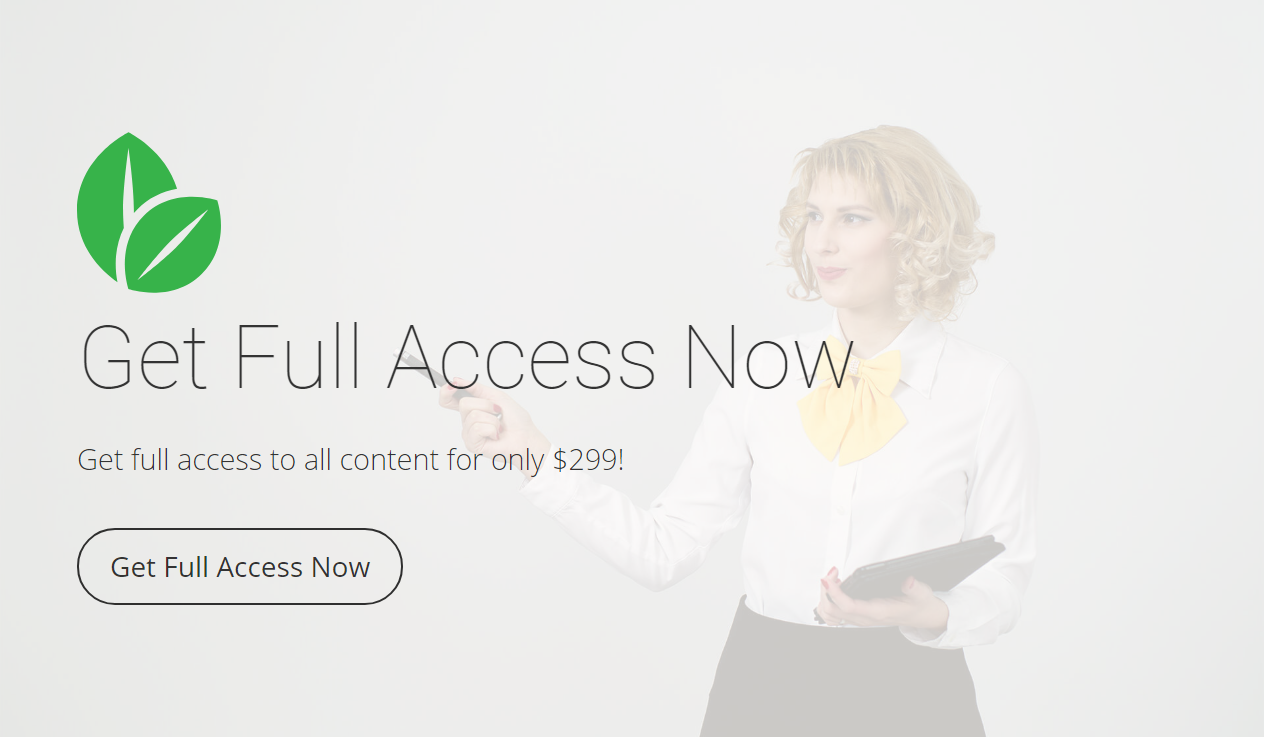
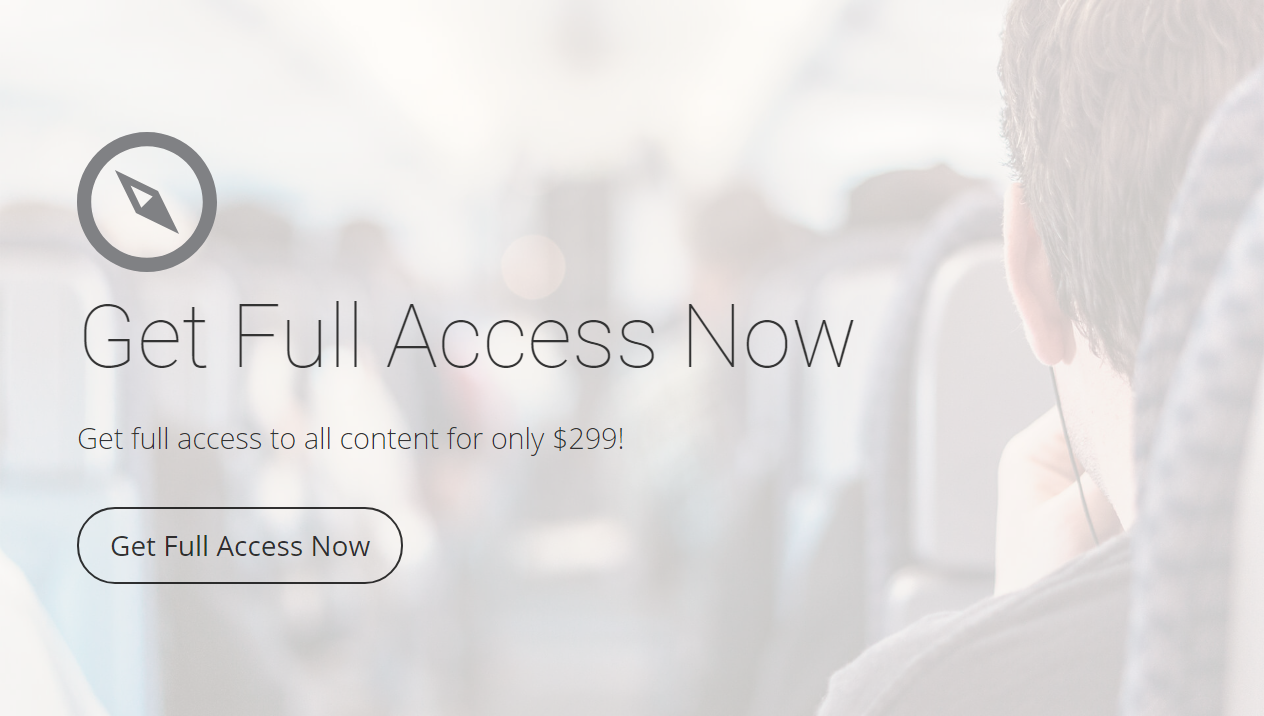
New and updated header blocks

diff --git a/blocks/landingpages/01-headers/block-04-03.blade.php b/blocks/landingpages/01-headers/block-04-03.blade.php
@@ -1,0 +1,22 @@
+<section class="-x-block">
+  <div class="header text-light -x-block-bg-img" style="background-image:url('/templates/assets/images/headers/blur-business-cafe-close-up.jpg')">
+    <div class="header-overlay -x-block-bg-color" style="background-color:rgba(28,43,50,0.8)">
+      <div class="container">
+        <div class="header-padding-xl">
+          <div class="row">
+            <div class="col-md-12 text-center text-md-left">
+              <img src="/templates/assets/images/mockups/mug-light-small.png" alt="" class="mt-1 -x-img">
+              <div class="-x-text">
+                <h1 class="display-2 mt-3">{!! trans('landingpages::block.header_07_head') !!}</h1>
+                <p class="lead">{!! trans('landingpages::block.header_07_line') !!}</p>
+              </div>
+            </div>
+          </div>
+          <div class="mt-3 mb-1 text-center text-md-left">
+            <a class="btn btn-outline-ghost btn-xlg btn-pill -x-link" href="#" role="button">{!! trans('landingpages::block.content_01_button') !!}</a>
+          </div>
+        </div>
+      </div>
+    </div>
+  </div>
+</section>

diff --git a/blocks/landingpages/01-headers/block-04-01.blade.php b/blocks/landingpages/01-headers/block-04-01.blade.php
@@ -1,11 +1,11 @@
 <section class="-x-block">
-  <div class="header text-dark -x-block-bg-img" style="background-image:url('/templates/assets/images/headers/portrait-of-young-woman-against-white-background.jpg')">
+  <div class="header text-dark -x-block-bg-img" style="background-image:url('/templates/assets/images/headers/man-person-people-train.jpg')">
     <div class="header-overlay -x-block-bg-color" style="background-color:rgba(254,252,248,0.8)">
       <div class="container">
         <div class="header-padding-xl">
           <div class="row">
             <div class="col-md-12 text-center text-md-left">
-              <img src="/templates/assets/images/logos/green-leaves.svg" alt="" class="mt-1 -x-img">
+              <img src="/templates/assets/images/logos/compass.svg" alt="" class="mt-1 -x-img">
               <div class="-x-text">
                 <h1 class="display-2 mt-3">{!! trans('landingpages::block.get_full_access_now') !!}</h1>
                 <p class="lead">{!! trans('landingpages::block.get_full_access_lead') !!}</p>

diff --git a/blocks/landingpages/01-headers/block-04-02.blade.php b/blocks/landingpages/01-headers/block-04-02.blade.php
@@ -6,7 +6,7 @@
           <div class="row">
             <div class="col-md-6 text-center text-md-left">
               <div class="-x-text">
-                <h1 class="display-4 mt-3">{!! trans('landingpages::block.get_full_access_now') !!}</h1>
+                <h1 class="display-4 mt-3">{!! trans('landingpages::block.header_06_head') !!}</h1>
                 <p class="lead">{!! trans('landingpages::block.get_full_access_lead') !!}</p>
               </div>
               <div class="mt-3 mb-1 text-center text-md-left">

diff --git a/core/Modules/LandingPages/Resources/lang/en/block.php b/core/Modules/LandingPages/Resources/lang/en/block.php
@@ -82,6 +82,9 @@ return array(
   "photo_01_head" => "First make it work, then make it better",
   "header_04_head" => "10 best practices",
   "header_05_head" => "Sustainable investments",
+  "header_06_head" => "Get access",
+  "header_07_head" => "Coffee break",
+  "header_07_line" => "Hi there, the coffee is ready!",
 
   // Video embeds
   "video_embed_url1" => "//www.youtube.com/embed/jgvx9OfZKJw",
